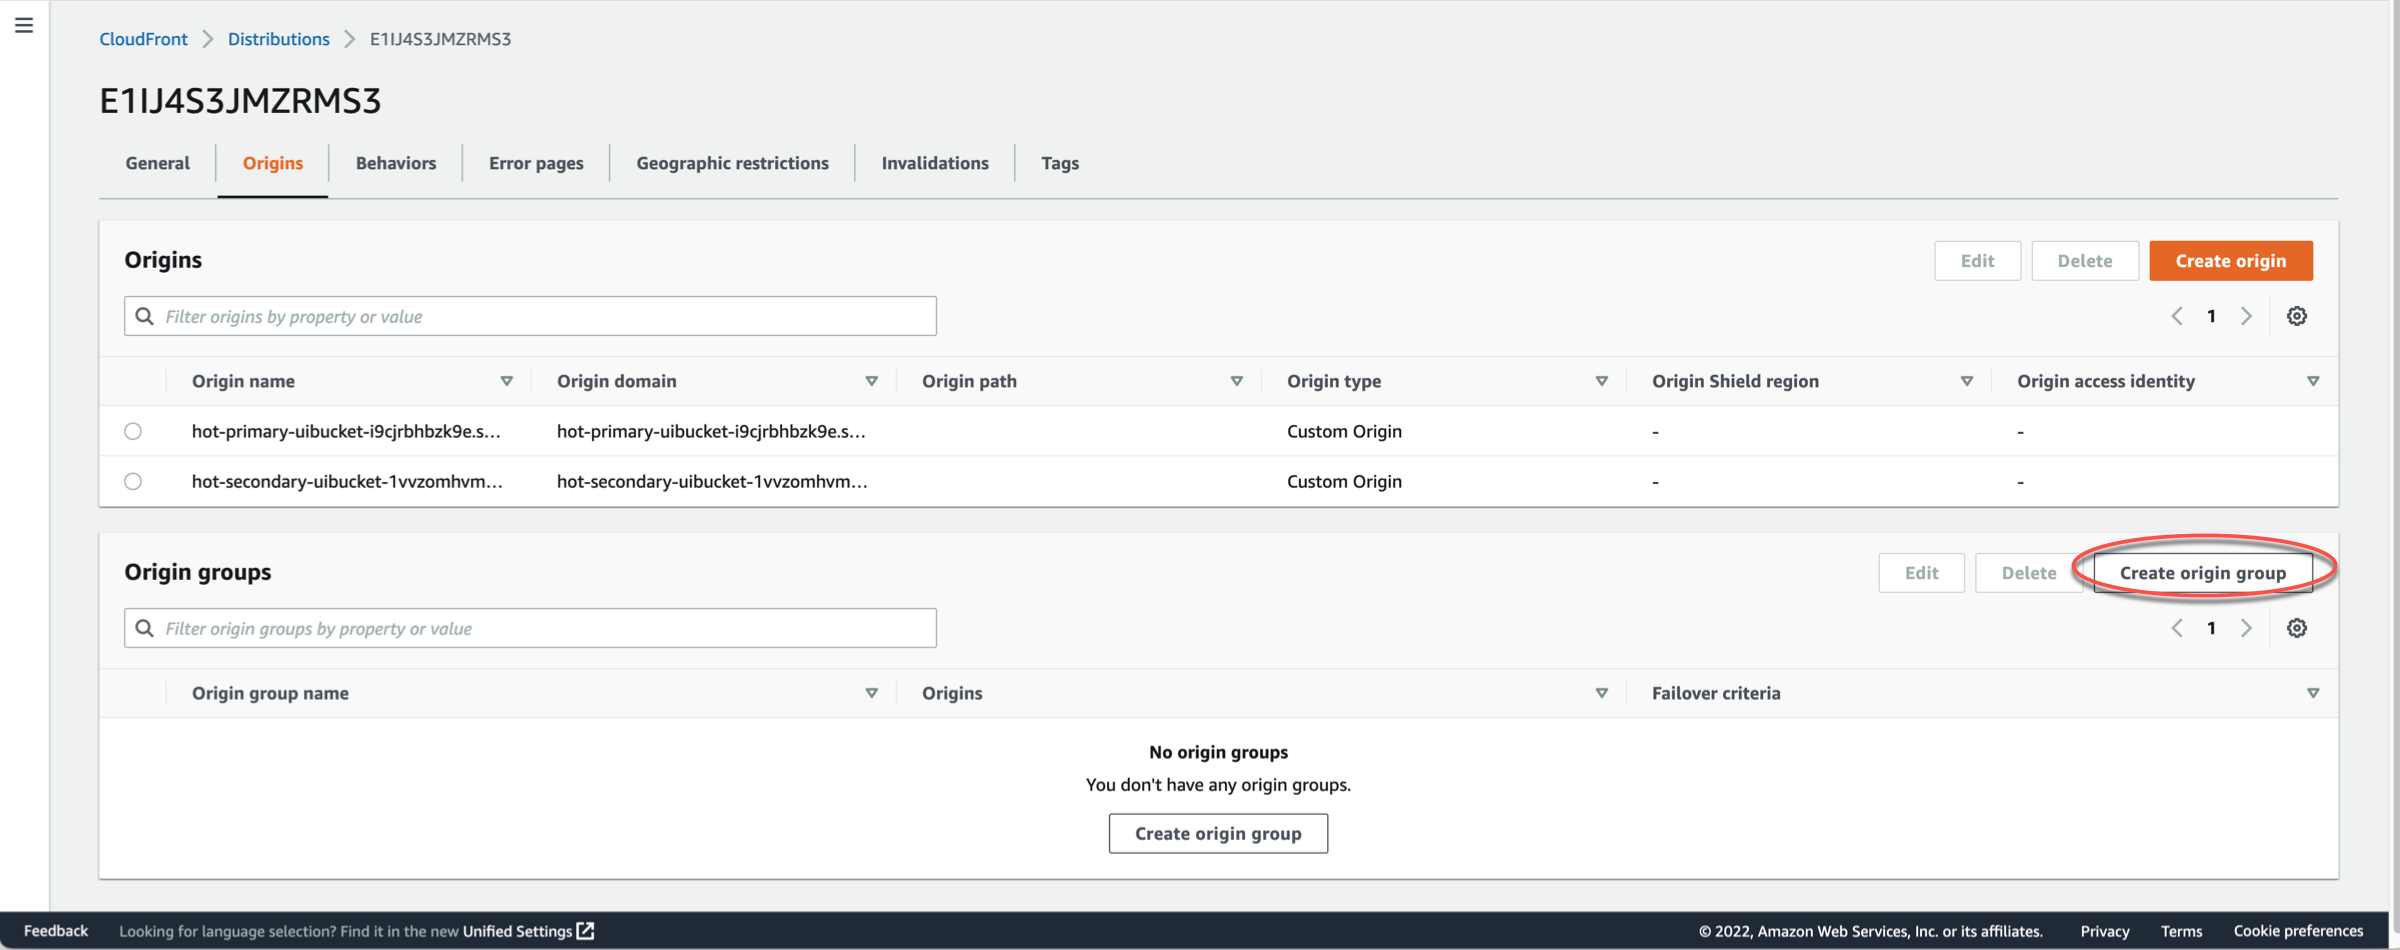
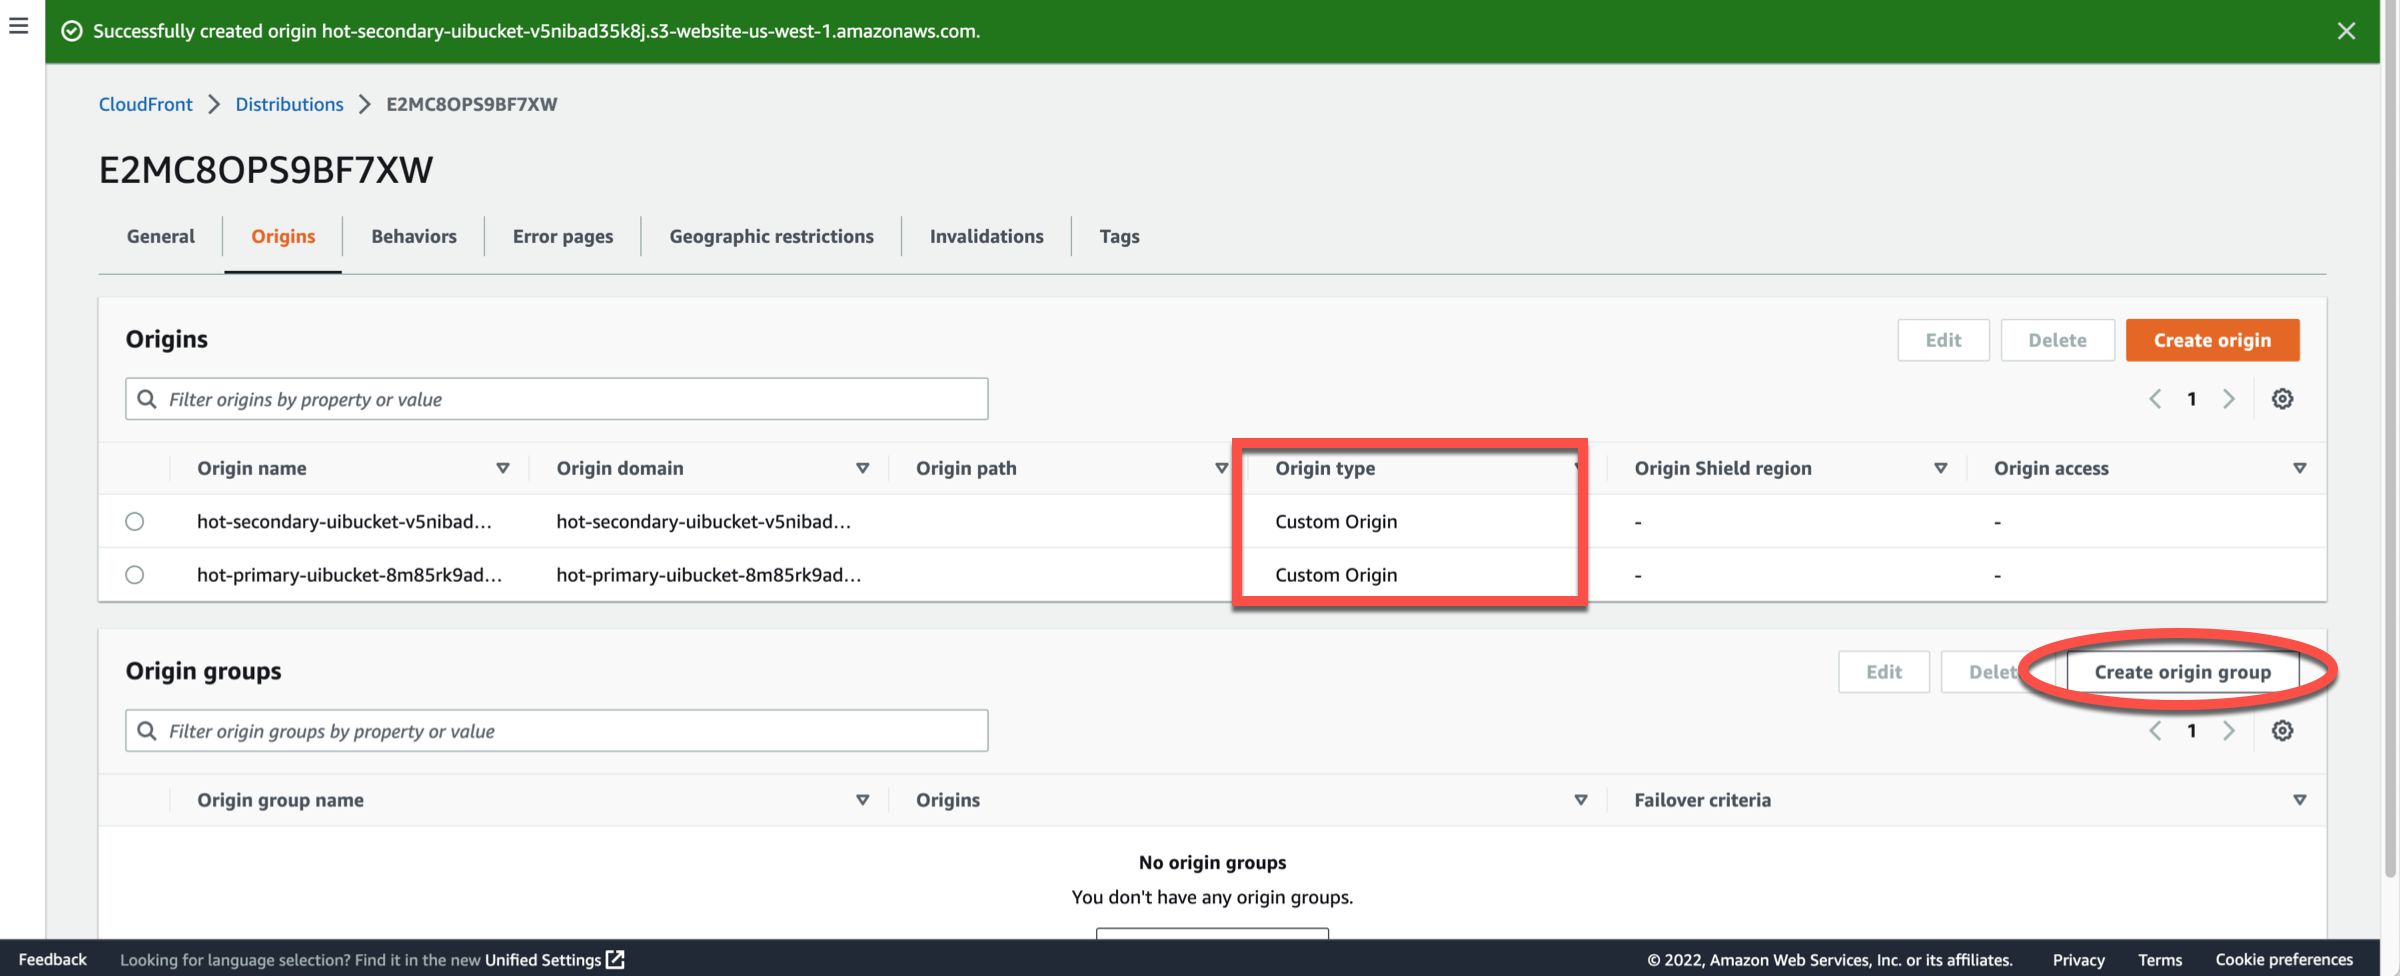
Make recommended fixes as per ticket V744040722 around Hot Standy Cloudfront Origin instructions

diff --git a/content/Reliability/Disaster Recovery/Workshop_4/4-cloudfront/_index.en.md b/content/Reliability/Disaster Recovery/Workshop_4/4-cloudfront/_index.en.md
@@ -14,13 +14,9 @@ You can improve resiliency and increase availability for specific scenarios by s
 
 {{< img cf-16.png >}}
 
-{{% notice warning %}}
-In Step 1.3, **DO NOT** choose the Amazon S3 **hot-primary-uibucket-xxxx** bucket in the dropdown for the **Origin Domain**.  The Cloudfront distribution will not work if you do this.
-{{% /notice %}}
+1.3 **DO NOT choose from the drop down list** for the **Origin domain** value.  Instead paste the **CloudFormation Stack Output WebsiteURL** value that you copied in **Verify Websites** section in the **N. Virginia (us-east-1)** region.
 
-1.3 Enter the **hot-primary CloudFormation Stack Output WebsiteURL** value that you copied to your clipboard in the **Verify Websites** section as the **Origin Domain**.
-
-{{< img cf-17.png >}}
+{{< img cf-32.png >}}
 
 1.4 In the **Cache key and origin requests** section, select **CachingDisabled** for the **Cache Policy** to disable CloudFront caching. 
 
@@ -42,17 +38,13 @@ We will now add an additional **Origin** and use our **hot-secondary-uibucket-xx
 
 {{< img cf-19.png >}}
 
-{{% notice warning %}}
-In Step 2.2,  **DO NOT** choose the Amazon S3 **hot-secondary-uibucket-xxxx** bucket in the dropdown for the **Origin Domain**.  The Cloudfront distribution will not work if you do this.
-{{% /notice %}}
+2.2 **DO NOT choose from the drop down list** for the **Origin domain** value.  Instead paste the **CloudFormation Stack Output WebsiteURL** value that you copied in **Verify Websites** section in the **N. California (us-west-1)** region.
 
-2.2 Enter the **hot-secondary CloudFormation Stack Output WebsiteURL** value that you copied to your clipboard in the **Verify Websites** section as the **Origin Domain**. Click the **Create origin** button.
-
-{{< img cf-20.png >}}
+{{< img cf-33.png >}}
 
 #### Configure the Origin Group 
 
-3.1 Click the **Create Origin Group** link.
+3.1 If you configured the origins correctly, you should see **Custom Origin** for the **Origin type**. Click the **Create Origin Group** link.
 
 {{< img cf-21.png >}}
 
